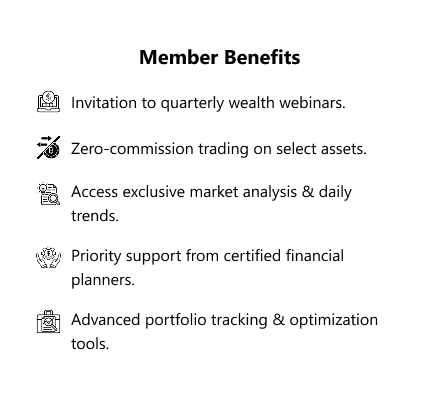
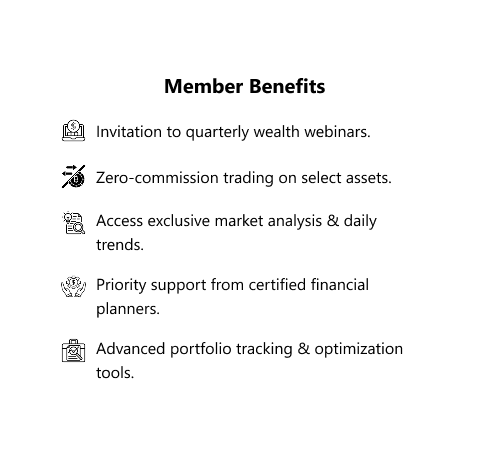
Update services section and About Us layout styling

diff --git a/public/css/home.css b/public/css/home.css
@@ -283,24 +283,24 @@
 /* ===== ABOUT SECTION ===== */
 .about-section {
     background: #ffffff;
-    padding: 110px 60px;
+    padding: 80px 60px;
     /* Hardware acceleration for smooth scrolling */
     will-change: transform;
     transform: translateZ(0);
 }
 
 .about-wrapper {
-    max-width: 100%;
-    margin: 0;
+    max-width: 1200px;
+    margin: 0 auto;
     display: flex;
-    gap: 56px;
+    gap: 60px;
     align-items: flex-start;
     flex-direction: row;
 }
 
 /* LEFT SIDE - picture at left (must appear first) */
 .about-left {
-    flex: 0 0 420px;
+    flex: 0 0 450px;
     min-width: 0;
     order: 0;
 }
@@ -316,6 +316,8 @@
     font-size: 14px;
     margin-bottom: 20px;
     font-weight: 500;
+    position: relative;
+    z-index: 10;
 }
 
 .about-tag .dot {
@@ -327,18 +329,26 @@
 }
 
 /* IMAGE */
+.about-image {
+    margin: 0;
+    margin-top: -15px;
+}
+
 .about-image img {
     width: 100%;
-    border-radius: 10px;
-    border: 3px solid #000;
+    border-radius: 0;
+    border: 1px solid #000;
+    display: block;
 }
 
 /* RIGHT SIDE - description at right (must appear second) */
 .about-right {
     flex: 1;
     min-width: 0;
-    margin-top: 50px;
+    margin-top: 31px;
     order: 1;
+    display: flex;
+    flex-direction: column;
 }
 
 .about-right p {
@@ -346,12 +356,14 @@
     color: #222;
     line-height: 1.75;
     margin-bottom: 20px;
+    margin-top: 0;
 }
 
 /* BUTTON */
 .about-btn-wrap {
     text-align: right;
-    margin-top: 25px;
+    margin-top: 20px;
+    margin-bottom: 0;
 }
 
 .about-btn {
@@ -642,32 +654,41 @@
 
 .cta-panels {
     display: grid;
-    grid-template-columns: repeat(2, 1fr);
+    grid-template-columns: repeat(2, auto);
     gap: 32px;
     align-items: start;
-    max-width: 680px;
+    max-width: 1008px;
     margin-left: auto;
     margin-right: auto;
+    justify-content: center;
 }
 
 .cta-panel {
-    background: rgba(255, 255, 255, 0.94);
+    background: #FFF;
     border: 1px solid rgba(0, 0, 0, 0.08);
-    border-radius: 0;
-    padding: 24px 28px;
+    border-radius: 4px;
+    display: flex;
+    padding: 40px 24px;
+    flex-direction: column;
+    justify-content: flex-start;
+    align-items: center;
+    gap: 10px;
+    width: 400px;
+    height: 400px;
     text-align: left;
     box-shadow: 0 12px 24px rgba(0, 0, 0, 0.08);
-    aspect-ratio: 1 / 1;
-    width: 100%;
     box-sizing: border-box;
 }
 
 .cta-panel h3 {
-    font-size: 15px;
-    font-weight: 700;
-    color: #111;
-    margin-bottom: 14px;
+    color: #000;
     text-align: center;
+    font-family: "Nirmala Text", sans-serif;
+    font-size: 20px;
+    font-style: normal;
+    font-weight: 700;
+    line-height: normal;
+    margin-bottom: 14px;
 }
 
 .cta-panel ul {
@@ -675,15 +696,18 @@
     padding: 0;
     margin: 0;
     display: grid;
-    gap: 10px;
+    gap: 22px;
 }
 
 .cta-panel li {
     position: relative;
     padding-left: 28px;
-    font-size: 13px;
-    line-height: 1.45;
-    color: #111;
+    color: #000;
+    font-family: "Nirmala Text", sans-serif;
+    font-size: 16px;
+    font-style: normal;
+    font-weight: 400;
+    line-height: normal;
     overflow-wrap: break-word;
     word-wrap: break-word;
 }
@@ -728,6 +752,13 @@
     .cta-panels {
         grid-template-columns: 1fr;
         gap: 22px;
+    }
+
+    .cta-panel {
+        width: 100%;
+        max-width: 488px;
+        height: auto;
+        min-height: 455px;
     }
 }
 

diff --git a/resources/views/home.blade.php b/resources/views/home.blade.php
@@ -185,11 +185,25 @@
         </div>
 
         <div class="cta-panels">
-            <div class="cta-panel cta-panel-image">
-                <img src="{{ asset('images/mb1.png') }}" alt="Member Benefits">
+            <div class="cta-panel">
+                <h3>Member Benefits</h3>
+                <ul>
+                    <li>Invitation to quarterly wealth webinars.</li>
+                    <li>Zero-commission trading on select assets.</li>
+                    <li>Access exclusive market analysis & daily trends.</li>
+                    <li>Priority support from certified financial planners.</li>
+                    <li>Advanced portfolio tracking & optimization tools.</li>
+                </ul>
             </div>
-            <div class="cta-panel cta-panel-image">
-                <img src="{{ asset('images/ap1.png') }}" alt="Advisor Perks">
+            <div class="cta-panel">
+                <h3>Advisor Perks</h3>
+                <ul>
+                    <li>Premium CRM & analytics dashboard suite.</li>
+                    <li>Networking with top-tier industry experts.</li>
+                    <li>Secure, compliant communication channels.</li>
+                    <li>Co-branded marketing materials & support.</li>
+                    <li>Direct access to a pool of high-intent clients.</li>
+                </ul>
             </div>
         </div>
     </div>
